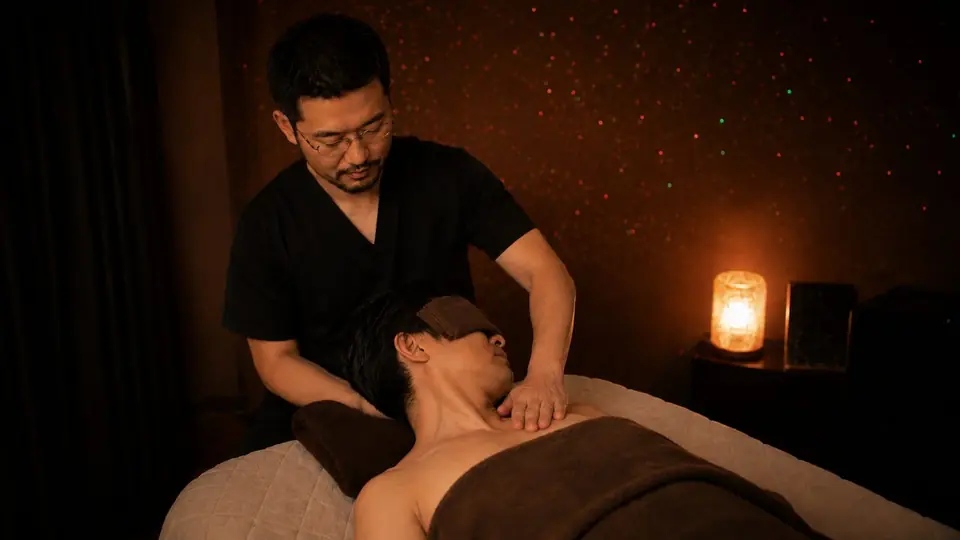
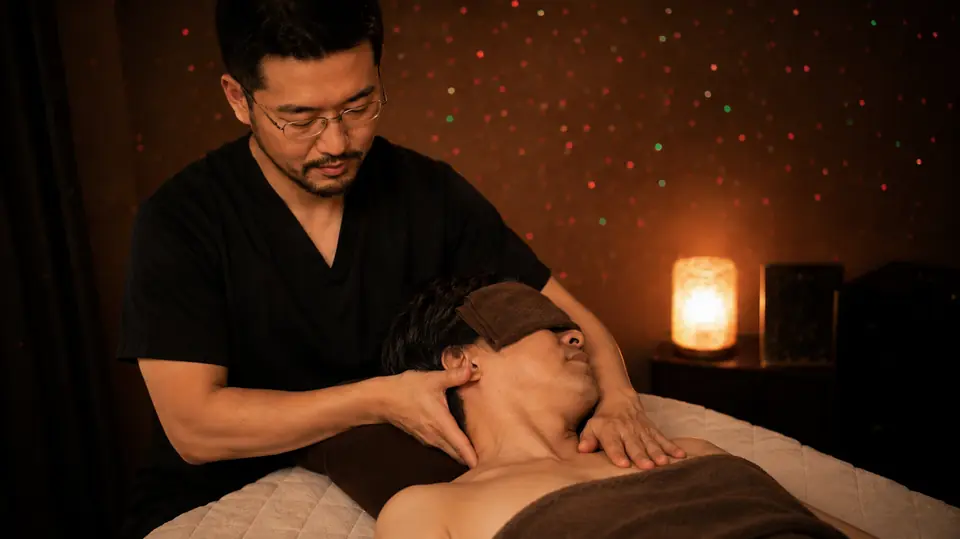
Lovers v3: S9を首の付け根掴み揉みポーズに差し替え

diff --git a/lovers-v3.html b/lovers-v3.html
@@ -235,8 +235,8 @@
         <img class="scene-img" src="lovers-images/v3/S9.webp" alt="S9">
         <div class="scene-body">
           <div class="scene-head"><span class="scene-num">S9</span><span class="scene-sec">16-18s</span><span class="scene-status done">💆 シズル感ASMR</span></div>
-          <h4>右手を枕の下へ・後頭部ほぐし</h4>
-          <p>客はがっつり左向き。先生の左手は客の右鎖骨を押さえ、右手は枕の下に潜り込ませて後頭部〜首の付け根をほぐす</p>
+          <h4>首の付け根を掴んで揉む</h4>
+          <p>先生の左手は客の右鎖骨下を押さえ、右手は客の首の付け根を後ろから掴む（親指が首側面・他指がうなじ側）。首をホールドして揉むASMRポーズ</p>
         </div>
       </div>
 
